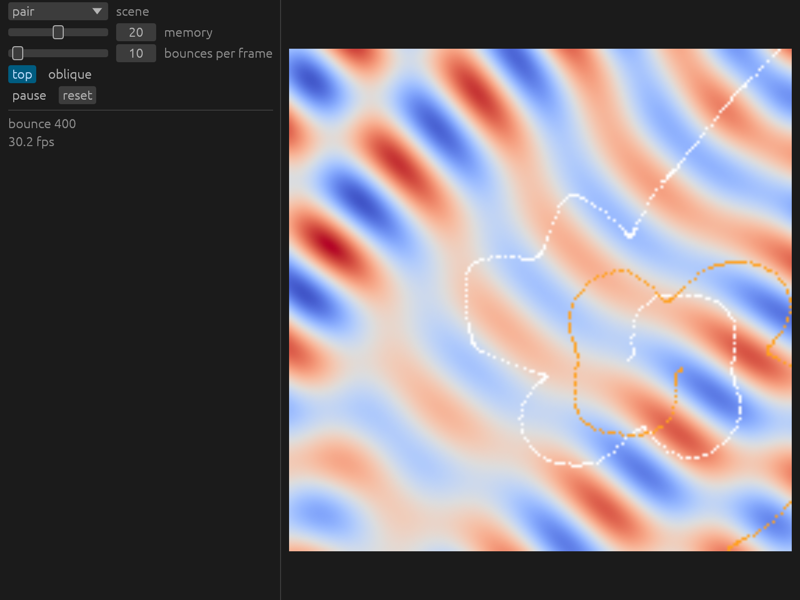
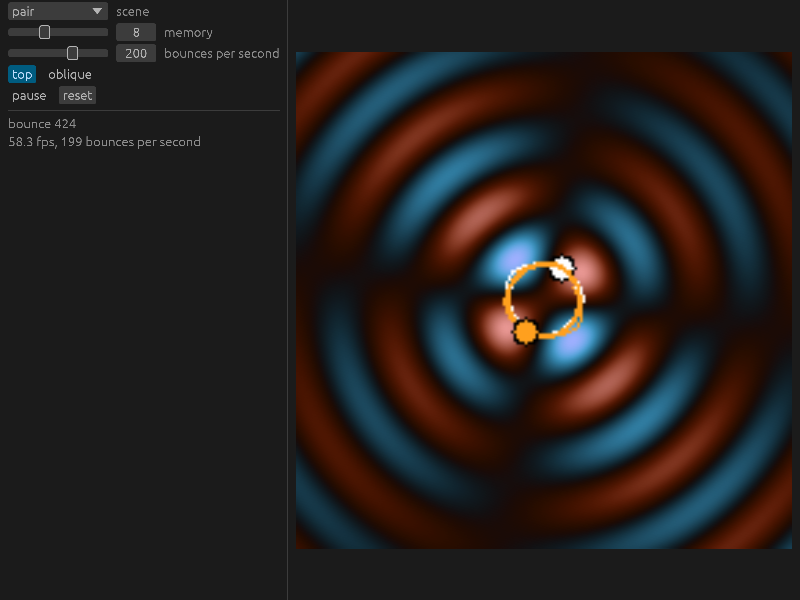
Live viewer saves a screenshot and quits with --screenshot

diff --git a/src/bin/live.rs b/src/bin/live.rs
@@ -1,7 +1,10 @@
+use std::env;
+
 use eframe::egui;
-use egui::{ColorImage, TextureHandle, TextureOptions};
-use pilot_wave::rate::Rate;
+use egui::{ColorImage, TextureHandle, TextureOptions, ViewportCommand};
 use pilot_wave::image::Image;
+use pilot_wave::png;
+use pilot_wave::rate::Rate;
 use pilot_wave::live::{Live, View};
 use pilot_wave::scene::{default_memory, SCENES};
 
@@ -10,8 +13,12 @@ const MEMORY_RANGE: (f64, f64) = (1.0, 400.0);
 /// Replay speed in bounces per second.
 const SPEED: f64 = 200.0;
 const SPEED_RANGE: (f64, f64) = (1.0, 3000.0);
+/// Frames to run before `--screenshot <path>` captures the window.
+const SCREENSHOT_FRAME: usize = 120;
 
 struct App {
+    screenshot: Option<String>,
+    frames: usize,
     live: Live,
     speed: f64,
     view: View,
@@ -27,10 +34,12 @@ fn color_image(image: &Image) -> ColorImage {
 }
 
 impl App {
-    fn new(ctx: &egui::Context) -> App {
+    fn new(ctx: &egui::Context, screenshot: Option<String>) -> App {
         let live = Live::new(SCENE, default_memory(SCENE));
         let image = color_image(&live.frame(View::Top));
         App {
+            screenshot,
+            frames: 0,
             live,
             speed: SPEED,
             view: View::Top,
@@ -79,6 +88,28 @@ impl App {
         ));
     }
 
+    /// Ask for the window's pixels at the screenshot frame, then save
+    /// them and quit once they arrive.
+    fn screenshot(&mut self, ctx: &egui::Context) {
+        let Some(path) = &self.screenshot else { return };
+        self.frames += 1;
+        if self.frames == SCREENSHOT_FRAME {
+            ctx.send_viewport_cmd(ViewportCommand::Screenshot(Default::default()));
+        }
+        let shot = ctx.input(|i| {
+            i.events.iter().find_map(|e| match e {
+                egui::Event::Screenshot { image, .. } => Some(image.clone()),
+                _ => None,
+            })
+        });
+        if let Some(shot) = shot {
+            let pixels = shot.pixels.iter().map(|c| [c.r(), c.g(), c.b()]).collect();
+            let image = Image { width: shot.size[0], height: shot.size[1], pixels };
+            png::write(path, &image).expect("write screenshot");
+            ctx.send_viewport_cmd(ViewportCommand::Close);
+        }
+    }
+
     fn picture(&self, ui: &mut egui::Ui) {
         let side = ui.available_size().min_elem();
         let size = egui::vec2(side, side);
@@ -101,14 +132,18 @@ impl eframe::App for App {
         let image = color_image(&self.live.frame(self.view));
         self.texture.set(image, TextureOptions::LINEAR);
         egui::CentralPanel::default_margins().show(ui, |ui| self.picture(ui));
+        self.screenshot(ui.ctx());
         ui.ctx().request_repaint();
     }
 }
 
 fn main() -> eframe::Result {
+    let args: Vec<String> = env::args().collect();
+    let screenshot = (args.get(1).map(String::as_str) == Some("--screenshot"))
+        .then(|| args[2].clone());
     eframe::run_native(
         "pilot-wave",
         eframe::NativeOptions::default(),
-        Box::new(|cc| Ok(Box::new(App::new(&cc.egui_ctx)))),
+        Box::new(|cc| Ok(Box::new(App::new(&cc.egui_ctx, screenshot)))),
     )
 }
